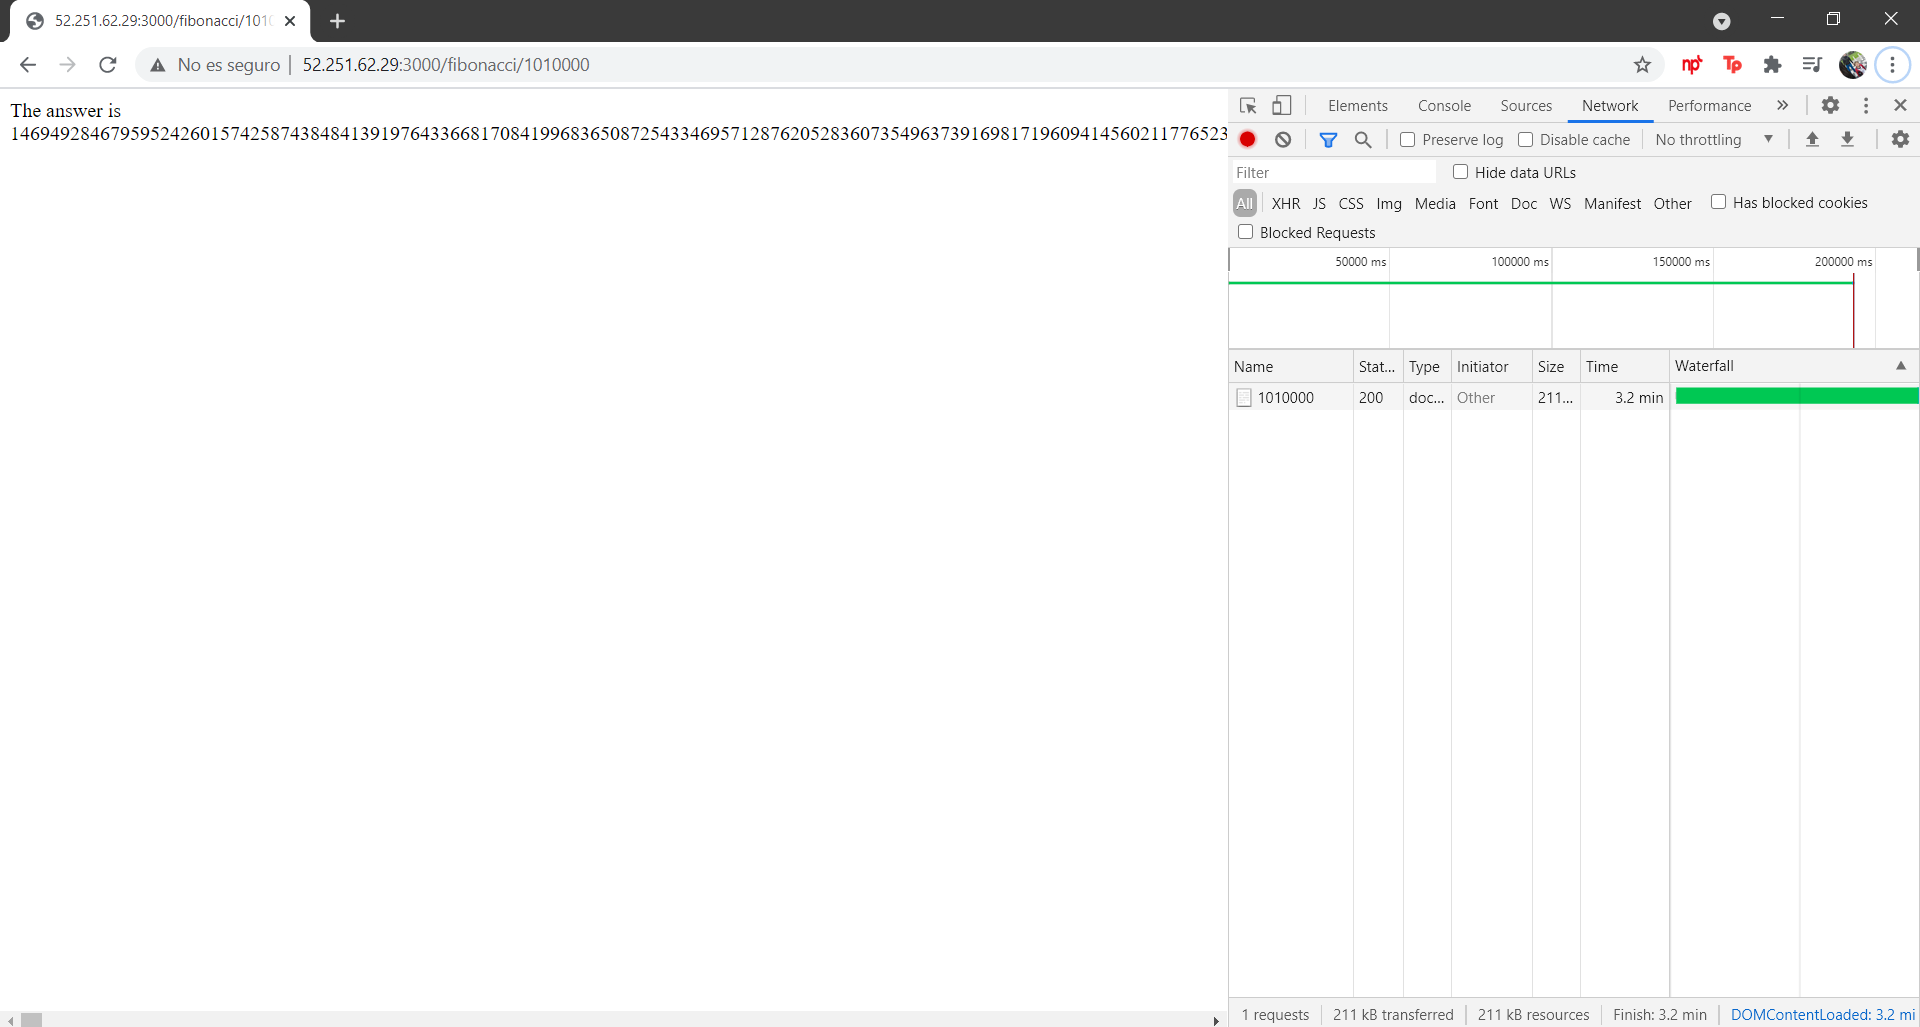
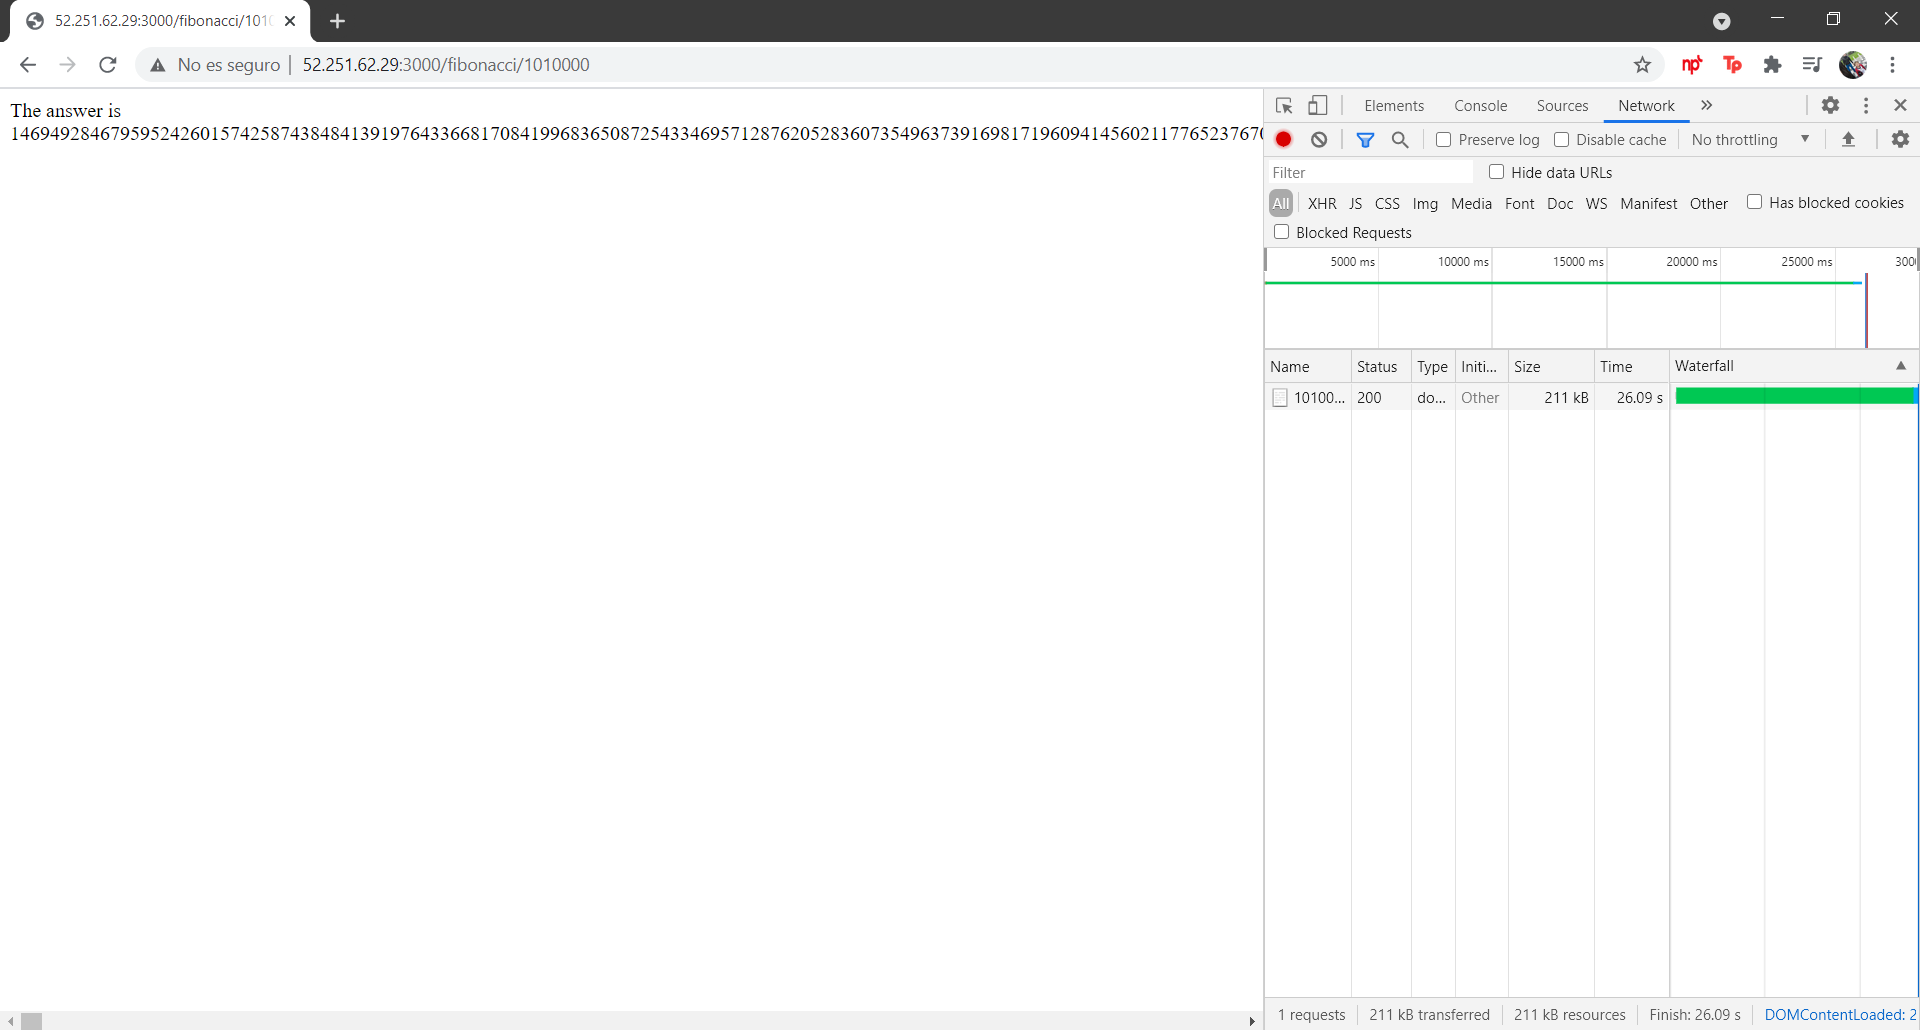
Parte 1

diff --git a/README.md b/README.md
@@ -101,44 +101,114 @@ Cuando un conjunto de usuarios consulta un enésimo número (superior a 1000000)
 ![](images/part1/part1-vm-3000InboudRule.png)
 
 7. La función que calcula en enésimo número de la secuencia de Fibonacci está muy mal construido y consume bastante CPU para obtener la respuesta. Usando la consola del Browser documente los tiempos de respuesta para dicho endpoint usando los siguintes valores:
-    * 1000000
+    
+	### B1ls
 	
+	* 1000000
+	
+	![](images/solucion/consola1.PNG)
 	
     * 1010000
 	
+	![](images/solucion/consola2.PNG)
 	
     * 1020000
 	
+	![](images/solucion/consola3.PNG)
 	
     * 1030000
 	
+	![](images/solucion/consola4.PNG)
 	
     * 1040000
 	
+	![](images/solucion/consola5.PNG)
 	
     * 1050000
 	
+	![](images/solucion/consola6.PNG)
 	
     * 1060000
 	
+	![](images/solucion/consola7.PNG)
 	
     * 1070000
 	
+	![](images/solucion/consola8.PNG)
 	
     * 1080000
 	
+	![](images/solucion/consola9.PNG)
 	
     * 1090000    
 	
+	![](images/solucion/consola10.PNG)
 	
+
+### B2m
+
+* 1000000
+	
+	![](images/solucion/consolaDiferente1.PNG)
+	
+    * 1010000
+	
+	![](images/solucion/consolaDiferente2.PNG)
+	
+    * 1020000
+	
+	![](images/solucion/consolaDiferente3.PNG)
+	
+    * 1030000
+	
+	![](images/solucion/consolaDiferente4.PNG)
+	
+    * 1040000
+	
+	![](images/solucion/consolaDiferente5.PNG)
+	
+    * 1050000
+	
+	![](images/solucion/consolaDiferente6.PNG)
+	
+    * 1060000
+	
+	![](images/solucion/consolaDiferente7.PNG)
+	
+    * 1070000
+	
+	![](images/solucion/consolaDiferente8.PNG)
+	
+    * 1080000
+	
+	![](images/solucion/consolaDiferente9.PNG)
+	
+    * 1090000    
+	
+	![](images/solucion/consolaDiferente10.PNG)
+
+
 	
 
 8. Dírijase ahora a Azure y verifique el consumo de CPU para la VM. (Los resultados pueden tardar 5 minutos en aparecer).
 
+### B1ls
+
+![](images/solucion/consumo.PNG)
+
+### B2m
+
+![](images/solucion/consumo2.PNG)
+
 ![Imágen 2](images/part1/part1-vm-cpu.png)
+
+
+
 
 9. Ahora usaremos Postman para simular una carga concurrente a nuestro sistema. Siga estos pasos.
     * Instale newman con el comando `npm install newman -g`. Para conocer más de Newman consulte el siguiente [enlace](https://learning.getpostman.com/docs/postman/collection-runs/command-line-integration-with-newman/).
+	
+	
     * Diríjase hasta la ruta `FibonacciApp/postman` en una maquina diferente a la VM.
     * Para el archivo `[ARSW_LOAD-BALANCING_AZURE].postman_environment.json` cambie el valor del parámetro `VM1` para que coincida con la IP de su VM.
     * Ejecute el siguiente comando.
@@ -147,6 +217,13 @@ Cuando un conjunto de usuarios consulta un enésimo número (superior a 1000000)
     newman run ARSW_LOAD-BALANCING_AZURE.postman_collection.json -e [ARSW_LOAD-BALANCING_AZURE].postman_environment.json -n 10 &
     newman run ARSW_LOAD-BALANCING_AZURE.postman_collection.json -e [ARSW_LOAD-BALANCING_AZURE].postman_environment.json -n 10
     ```
+### B1ls
+
+	![](images/solucion/pruebaJson.PNG)
+
+### B2m
+
+	![](images/solucion/pruebaJson2.PNG)
 
 10. La cantidad de CPU consumida es bastante grande y un conjunto considerable de peticiones concurrentes pueden hacer fallar nuestro servicio. Para solucionarlo usaremos una estrategia de Escalamiento Vertical. En Azure diríjase a la sección *size* y a continuación seleccione el tamaño `B2ms`.
 
@@ -164,13 +241,63 @@ Cuando un conjunto de usuarios consulta un enésimo número (superior a 1000000)
 + Maquina Virtual
 + Dirección IP pública
 + Grupo de seguridad de red
-+ Interfaz de red
++ Interfaz de red   
 + Disco
 + Clave SSH
 
 2. ¿Brevemente describa para qué sirve cada recurso?
-3. ¿Al cerrar la conexión ssh con la VM, por qué se cae la aplicación que ejecutamos con el comando `npm FibonacciApp.js`? ¿Por qué debemos crear un *Inbound port rule* antes de acceder al servicio?
+
++ Red virtual: Es la red privada de Azure quien permite la comunicacion entre los recursos, el internet y las redes on-premise de forma segura
++ Maquina Virtual: Realiza una emulacion de un computador con sus respectivos componentes y recursos
++ Dirección IP pública: El identificador unico para el ordenador que esta siendo simulado que permite las diferentes conexiones
++ Grupo de seguridad de red: Tiene la tarea de filtrar el trafico de red bajo premisas de seguridad que permiten o restringen dicho trafico de entrada en la red, asi como tambien el trafico de salida
++ Interfaz de red:	Realiza la funcion de conectar la maquina virtual con el internet y recursos del sistema
++ Disco: Tiene el papel de almacenar los distintos datos del sistema	
++ Clave SSH: es un protocolo de conexion cifrada que permite que las conexiones se realicen inicios de secion seguros en un contexto de conexiones que no son consideradas como seguras componiendose de una llave publicda y una llave privada, de manera que al conectarse el cliente SSH se asegura de que la llave privada sea la correcta para asi otorgar el acceso a la VM
+
+3. ¿Al cerrar la conexión ssh con la VM, por qué se cae la aplicación que ejecutamos con el comando `npm FibonacciApp.js`? 
+
++ Al utilizar el comando `npm FibonacciApp.js` , y cerrar la conexion SSH la aplicacion se detiene ya que el comando corre en dicha consola de la maquina virtual, por ende al teminar la conexion se termina por completo la conexion ya que el SSH hace un llamado a todos los procesos para que se cierren, puede suceder por inactividad, si existe algun error o simplemente por terminar la conexion, es por esto que se utiliza el comando `forever start FibonacciApp.js`, para que sea posible que siga en ejecucion el script sin importar si se cierra la conexion siempre y cuando la maquina virtual este encendida
+
+¿Por qué debemos crear un *Inbound port rule* antes de acceder al servicio?
+
++ Se debia agregar este *Inbound port rule* para permitir la conexion al servicio por el puerto 3000 como se realizo en este caso, ademas de poder elegir por que protocolo se recibira o denegara segun la eleccion que se realice es una forma de personalizar la conexion (el trafico de red) segun la necesidad
+
 4. Adjunte tabla de tiempos e interprete por qué la función tarda tando tiempo.
+
+### B1ls
+
+| **Caso** | **Tiempo(s)**|
+|---------|--------|
+| 6 | 0.344 |
+| 1000000 | 25.71 |
+| 1010000 | 26.09 |
+| 1020000 | 26.97 |
+| 1030000 | 27.85 |
+| 1040000 | 26.98 |
+| 1050000 | 28.84 |
+| 1060000 | 29.36 |
+| 1070000 | 30.10 |
+| 1080000 | 32.38 |
+| 1090000 | 31.52 |
+
+### B2m
+
+| **Caso**    | **Tiempo(s)** |
+|---------|-----------|
+| 6 	  | 0.344     |
+| 1000000 | 23.19 	  |
+| 1010000 | 23.55     |
+| 1020000 | 24.27     |
+| 1030000 | 26.03     |
+| 1040000 | 25.29     |
+| 1050000 | 26.74     |
+| 1060000 | 26.67     |
+| 1070000 | 27.17     |
+| 1080000 | 27.92     |
+| 1090000 | 28.27     |
+
+
 5. Adjunte imágen del consumo de CPU de la VM e interprete por qué la función consume esa cantidad de CPU.
 6. Adjunte la imagen del resumen de la ejecución de Postman. Interprete:
     * Tiempos de ejecución de cada petición.
